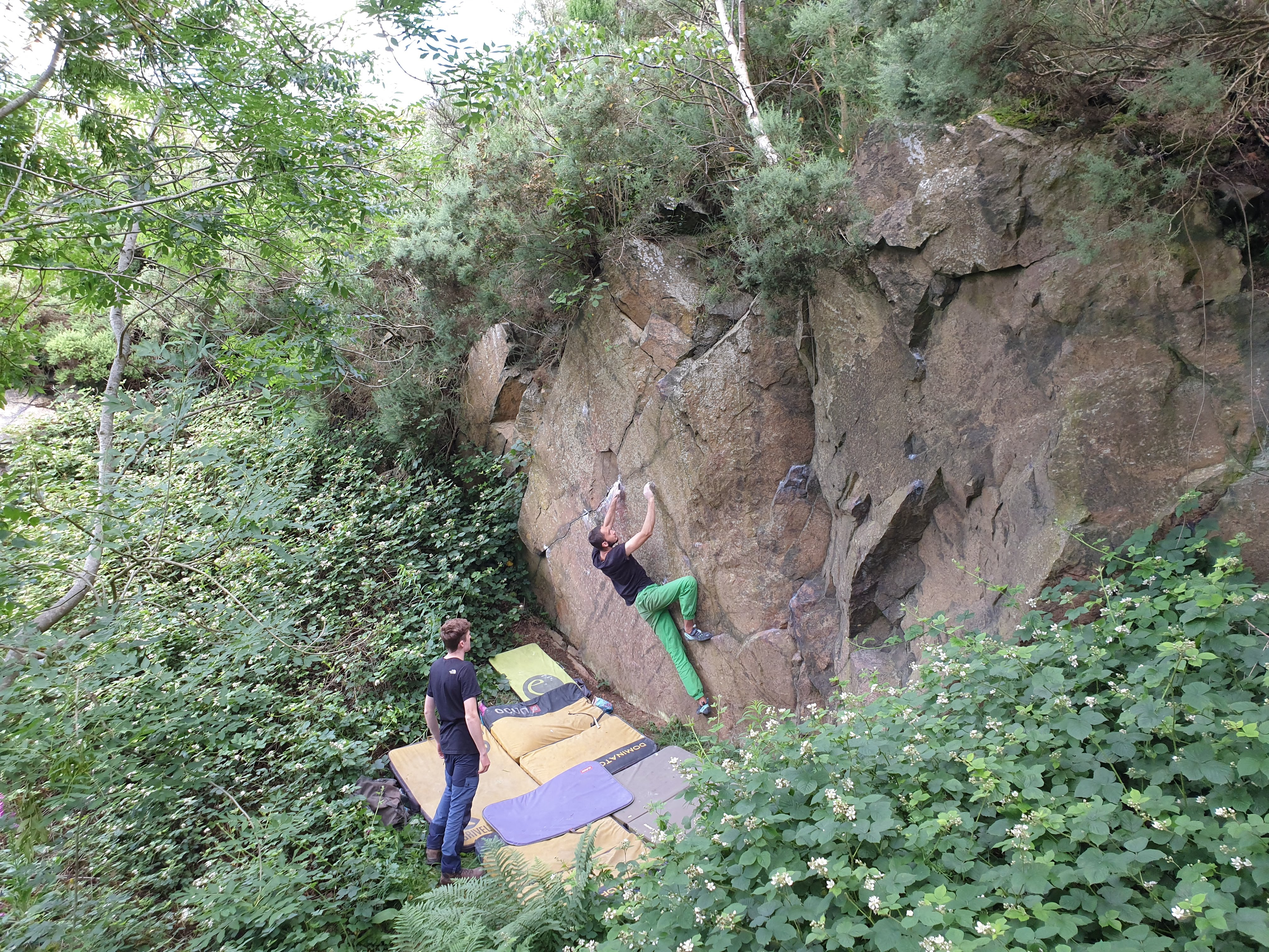
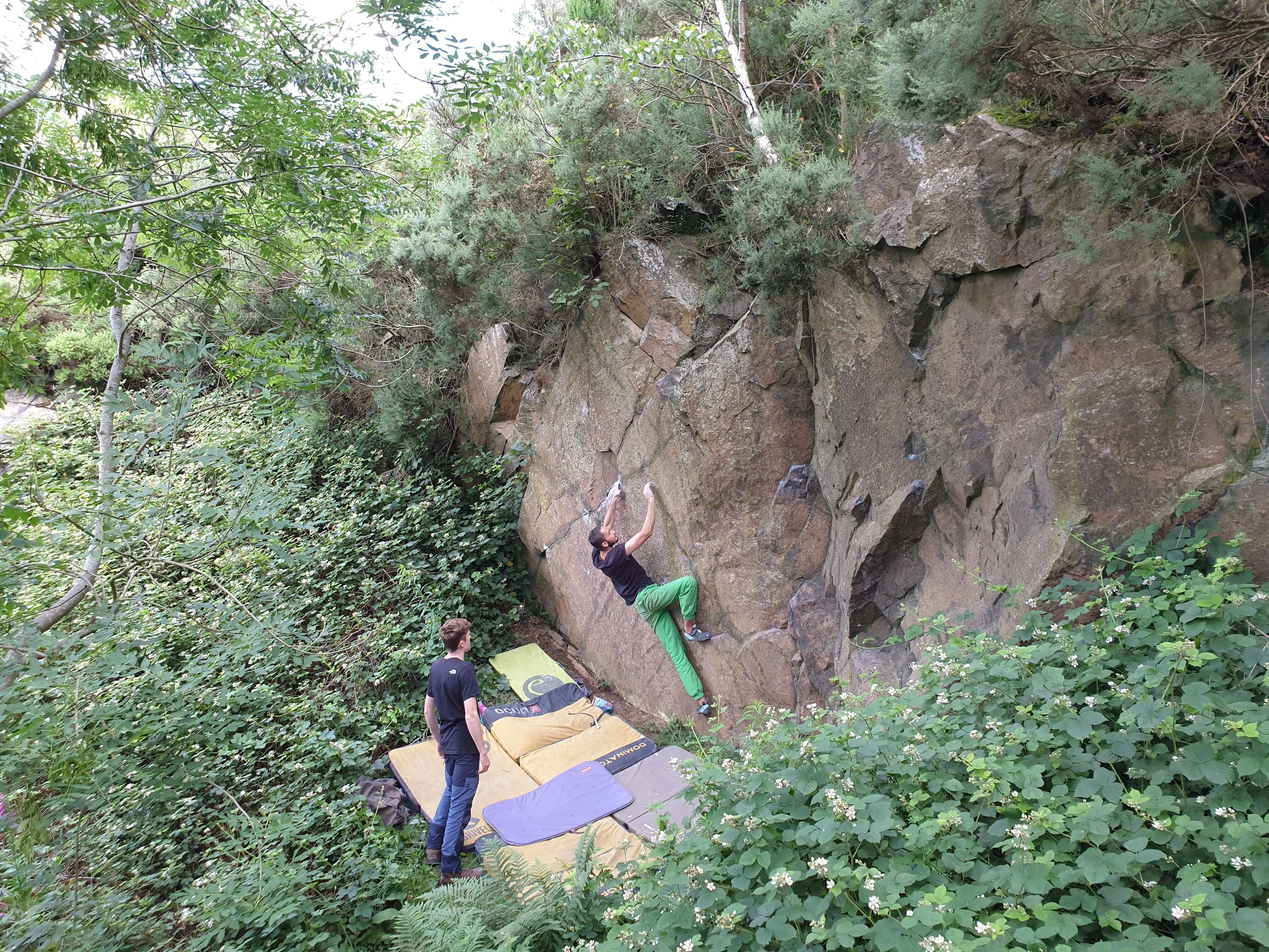
compress images

diff --git a/index.html b/index.html
@@ -1395,8 +1395,8 @@ Links
 <p>If you’re interested in coming outside with us then check out <a href="trips.html">our trips page</a>.</p>
 <p><br></p>
 <div class="layout-chunk" data-layout="l-body">
-<div id="htmlwidget-d46093bd4d8583d0d074" style="width:100%;height:384px;" class="slickR html-widget"></div>
-<script type="application/json" data-for="htmlwidget-d46093bd4d8583d0d074">{"x":[{"obj":"<div class=\"baseDiv_bump_524067915277556\">\n  <div>\n    <img src=\"https://warwickclimbersunion.co.uk/images/slideshow/a.jpg\" style=\"width:100%;height:auto;margin-left:auto;margin-right:auto;\"/>\n  <\/div>\n  <div>\n    <img src=\"https://warwickclimbersunion.co.uk/images/slideshow/b.jpg\" style=\"width:100%;height:auto;margin-left:auto;margin-right:auto;\"/>\n  <\/div>\n  <div>\n    <img src=\"https://warwickclimbersunion.co.uk/images/slideshow/c.jpg\" style=\"width:100%;height:auto;margin-left:auto;margin-right:auto;\"/>\n  <\/div>\n  <div>\n    <img src=\"https://warwickclimbersunion.co.uk/images/slideshow/d.jpg\" style=\"width:100%;height:auto;margin-left:auto;margin-right:auto;\"/>\n  <\/div>\n  <div>\n    <img src=\"https://warwickclimbersunion.co.uk/images/slideshow/DSC_0716.JPG\" style=\"width:100%;height:auto;margin-left:auto;margin-right:auto;\"/>\n  <\/div>\n  <div>\n    <img src=\"https://warwickclimbersunion.co.uk/images/slideshow/DSC_0783.JPG\" style=\"width:100%;height:auto;margin-left:auto;margin-right:auto;\"/>\n  <\/div>\n  <div>\n    <img src=\"https://warwickclimbersunion.co.uk/images/slideshow/e.jpg\" style=\"width:100%;height:auto;margin-left:auto;margin-right:auto;\"/>\n  <\/div>\n  <div>\n    <img src=\"https://warwickclimbersunion.co.uk/images/slideshow/f.jpg\" style=\"width:100%;height:auto;margin-left:auto;margin-right:auto;\"/>\n  <\/div>\n  <div>\n    <img src=\"https://warwickclimbersunion.co.uk/images/slideshow/g.jpg\" style=\"width:100%;height:auto;margin-left:auto;margin-right:auto;\"/>\n  <\/div>\n  <div>\n    <img src=\"https://warwickclimbersunion.co.uk/images/slideshow/h.jpg\" style=\"width:100%;height:auto;margin-left:auto;margin-right:auto;\"/>\n  <\/div>\n  <div>\n    <img src=\"https://warwickclimbersunion.co.uk/images/slideshow/i.jpg\" style=\"width:100%;height:auto;margin-left:auto;margin-right:auto;\"/>\n  <\/div>\n  <div>\n    <img src=\"https://warwickclimbersunion.co.uk/images/slideshow/j.jpg\" style=\"width:100%;height:auto;margin-left:auto;margin-right:auto;\"/>\n  <\/div>\n  <div>\n    <img src=\"https://warwickclimbersunion.co.uk/images/slideshow/k.jpg\" style=\"width:100%;height:auto;margin-left:auto;margin-right:auto;\"/>\n  <\/div>\n  <div>\n    <img src=\"https://warwickclimbersunion.co.uk/images/slideshow/l.jpg\" style=\"width:100%;height:auto;margin-left:auto;margin-right:auto;\"/>\n  <\/div>\n  <div>\n    <img src=\"https://warwickclimbersunion.co.uk/images/slideshow/m.jpg\" style=\"width:100%;height:auto;margin-left:auto;margin-right:auto;\"/>\n  <\/div>\n  <div>\n    <img src=\"https://warwickclimbersunion.co.uk/images/slideshow/n.jpg\" style=\"width:100%;height:auto;margin-left:auto;margin-right:auto;\"/>\n  <\/div>\n  <div>\n    <img src=\"https://warwickclimbersunion.co.uk/images/slideshow/o.jpg\" style=\"width:100%;height:auto;margin-left:auto;margin-right:auto;\"/>\n  <\/div>\n  <div>\n    <img src=\"https://warwickclimbersunion.co.uk/images/slideshow/p.JPG\" style=\"width:100%;height:auto;margin-left:auto;margin-right:auto;\"/>\n  <\/div>\n  <div>\n    <img src=\"https://warwickclimbersunion.co.uk/images/slideshow/q.JPG\" style=\"width:100%;height:auto;margin-left:auto;margin-right:auto;\"/>\n  <\/div>\n  <div>\n    <img src=\"https://warwickclimbersunion.co.uk/images/slideshow/r.JPG\" style=\"width:100%;height:auto;margin-left:auto;margin-right:auto;\"/>\n  <\/div>\n  <div>\n    <img src=\"https://warwickclimbersunion.co.uk/images/slideshow/s.jpg\" style=\"width:100%;height:auto;margin-left:auto;margin-right:auto;\"/>\n  <\/div>\n  <div>\n    <img src=\"https://warwickclimbersunion.co.uk/images/slideshow/t.JPG\" style=\"width:100%;height:auto;margin-left:auto;margin-right:auto;\"/>\n  <\/div>\n  <div>\n    <img src=\"https://warwickclimbersunion.co.uk/images/slideshow/u.jpg\" style=\"width:100%;height:auto;margin-left:auto;margin-right:auto;\"/>\n  <\/div>\n  <div>\n    <img src=\"https://warwickclimbersunion.co.uk/images/slideshow/v.jpg\" style=\"width:100%;height:auto;margin-left:auto;margin-right:auto;\"/>\n  <\/div>\n  <div>\n    <img src=\"https://warwickclimbersunion.co.uk/images/slideshow/w.jpg\" style=\"width:100%;height:auto;margin-left:auto;margin-right:auto;\"/>\n  <\/div>\n  <div>\n    <img src=\"https://warwickclimbersunion.co.uk/images/slideshow/x.jpg\" style=\"width:100%;height:auto;margin-left:auto;margin-right:auto;\"/>\n  <\/div>\n  <div>\n    <img src=\"https://warwickclimbersunion.co.uk/images/slideshow/y.jpg\" style=\"width:100%;height:auto;margin-left:auto;margin-right:auto;\"/>\n  <\/div>\n  <div>\n    <img src=\"https://warwickclimbersunion.co.uk/images/slideshow/z.jpg\" style=\"width:100%;height:auto;margin-left:auto;margin-right:auto;\"/>\n  <\/div>\n  <div>\n    <img src=\"https://warwickclimbersunion.co.uk/images/slideshow/za.jpg\" style=\"width:100%;height:auto;margin-left:auto;margin-right:auto;\"/>\n  <\/div>\n  <div>\n    <img src=\"https://warwickclimbersunion.co.uk/images/slideshow/zb.JPG\" style=\"width:100%;height:auto;margin-left:auto;margin-right:auto;\"/>\n  <\/div>\n  <div>\n    <img src=\"https://warwickclimbersunion.co.uk/images/slideshow/zc.jpg\" style=\"width:100%;height:auto;margin-left:auto;margin-right:auto;\"/>\n  <\/div>\n  <div>\n    <img src=\"https://warwickclimbersunion.co.uk/images/slideshow/zd.jpg\" style=\"width:100%;height:auto;margin-left:auto;margin-right:auto;\"/>\n  <\/div>\n<\/div>","divName":"baseDiv_bump_524067915277556","slideh":"auto","slidew":"100%","slickOpts":{"autoplay":true,"autoplaySpeed":3000,"arrows":true,"dots":true,"mobileFirst":true}}],"evals":[],"jsHooks":[]}</script>
+<div id="htmlwidget-b1c62f8b764ef7f1d101" style="width:100%;height:384px;" class="slickR html-widget"></div>
+<script type="application/json" data-for="htmlwidget-b1c62f8b764ef7f1d101">{"x":[{"obj":"<div class=\"baseDiv_bump_733047986868769\">\n  <div>\n    <img src=\"https://warwickclimbersunion.co.uk/images/slideshow/a.jpg\" style=\"width:100%;height:auto;margin-left:auto;margin-right:auto;\"/>\n  <\/div>\n  <div>\n    <img src=\"https://warwickclimbersunion.co.uk/images/slideshow/b.jpg\" style=\"width:100%;height:auto;margin-left:auto;margin-right:auto;\"/>\n  <\/div>\n  <div>\n    <img src=\"https://warwickclimbersunion.co.uk/images/slideshow/c.jpg\" style=\"width:100%;height:auto;margin-left:auto;margin-right:auto;\"/>\n  <\/div>\n  <div>\n    <img src=\"https://warwickclimbersunion.co.uk/images/slideshow/d.jpg\" style=\"width:100%;height:auto;margin-left:auto;margin-right:auto;\"/>\n  <\/div>\n  <div>\n    <img src=\"https://warwickclimbersunion.co.uk/images/slideshow/e.jpg\" style=\"width:100%;height:auto;margin-left:auto;margin-right:auto;\"/>\n  <\/div>\n  <div>\n    <img src=\"https://warwickclimbersunion.co.uk/images/slideshow/f.jpg\" style=\"width:100%;height:auto;margin-left:auto;margin-right:auto;\"/>\n  <\/div>\n  <div>\n    <img src=\"https://warwickclimbersunion.co.uk/images/slideshow/g.jpg\" style=\"width:100%;height:auto;margin-left:auto;margin-right:auto;\"/>\n  <\/div>\n  <div>\n    <img src=\"https://warwickclimbersunion.co.uk/images/slideshow/h.jpg\" style=\"width:100%;height:auto;margin-left:auto;margin-right:auto;\"/>\n  <\/div>\n  <div>\n    <img src=\"https://warwickclimbersunion.co.uk/images/slideshow/i.jpg\" style=\"width:100%;height:auto;margin-left:auto;margin-right:auto;\"/>\n  <\/div>\n  <div>\n    <img src=\"https://warwickclimbersunion.co.uk/images/slideshow/j.jpg\" style=\"width:100%;height:auto;margin-left:auto;margin-right:auto;\"/>\n  <\/div>\n  <div>\n    <img src=\"https://warwickclimbersunion.co.uk/images/slideshow/l.jpg\" style=\"width:100%;height:auto;margin-left:auto;margin-right:auto;\"/>\n  <\/div>\n  <div>\n    <img src=\"https://warwickclimbersunion.co.uk/images/slideshow/m.jpg\" style=\"width:100%;height:auto;margin-left:auto;margin-right:auto;\"/>\n  <\/div>\n  <div>\n    <img src=\"https://warwickclimbersunion.co.uk/images/slideshow/n.jpg\" style=\"width:100%;height:auto;margin-left:auto;margin-right:auto;\"/>\n  <\/div>\n  <div>\n    <img src=\"https://warwickclimbersunion.co.uk/images/slideshow/o.jpg\" style=\"width:100%;height:auto;margin-left:auto;margin-right:auto;\"/>\n  <\/div>\n  <div>\n    <img src=\"https://warwickclimbersunion.co.uk/images/slideshow/p.JPG\" style=\"width:100%;height:auto;margin-left:auto;margin-right:auto;\"/>\n  <\/div>\n  <div>\n    <img src=\"https://warwickclimbersunion.co.uk/images/slideshow/q.JPG\" style=\"width:100%;height:auto;margin-left:auto;margin-right:auto;\"/>\n  <\/div>\n  <div>\n    <img src=\"https://warwickclimbersunion.co.uk/images/slideshow/r.JPG\" style=\"width:100%;height:auto;margin-left:auto;margin-right:auto;\"/>\n  <\/div>\n  <div>\n    <img src=\"https://warwickclimbersunion.co.uk/images/slideshow/s.jpg\" style=\"width:100%;height:auto;margin-left:auto;margin-right:auto;\"/>\n  <\/div>\n  <div>\n    <img src=\"https://warwickclimbersunion.co.uk/images/slideshow/t.JPG\" style=\"width:100%;height:auto;margin-left:auto;margin-right:auto;\"/>\n  <\/div>\n  <div>\n    <img src=\"https://warwickclimbersunion.co.uk/images/slideshow/u.jpg\" style=\"width:100%;height:auto;margin-left:auto;margin-right:auto;\"/>\n  <\/div>\n  <div>\n    <img src=\"https://warwickclimbersunion.co.uk/images/slideshow/v.jpg\" style=\"width:100%;height:auto;margin-left:auto;margin-right:auto;\"/>\n  <\/div>\n  <div>\n    <img src=\"https://warwickclimbersunion.co.uk/images/slideshow/w.jpg\" style=\"width:100%;height:auto;margin-left:auto;margin-right:auto;\"/>\n  <\/div>\n  <div>\n    <img src=\"https://warwickclimbersunion.co.uk/images/slideshow/x.jpg\" style=\"width:100%;height:auto;margin-left:auto;margin-right:auto;\"/>\n  <\/div>\n  <div>\n    <img src=\"https://warwickclimbersunion.co.uk/images/slideshow/xa.JPG\" style=\"width:100%;height:auto;margin-left:auto;margin-right:auto;\"/>\n  <\/div>\n  <div>\n    <img src=\"https://warwickclimbersunion.co.uk/images/slideshow/xb.JPG\" style=\"width:100%;height:auto;margin-left:auto;margin-right:auto;\"/>\n  <\/div>\n  <div>\n    <img src=\"https://warwickclimbersunion.co.uk/images/slideshow/y.jpg\" style=\"width:100%;height:auto;margin-left:auto;margin-right:auto;\"/>\n  <\/div>\n  <div>\n    <img src=\"https://warwickclimbersunion.co.uk/images/slideshow/z.jpg\" style=\"width:100%;height:auto;margin-left:auto;margin-right:auto;\"/>\n  <\/div>\n  <div>\n    <img src=\"https://warwickclimbersunion.co.uk/images/slideshow/za.jpg\" style=\"width:100%;height:auto;margin-left:auto;margin-right:auto;\"/>\n  <\/div>\n  <div>\n    <img src=\"https://warwickclimbersunion.co.uk/images/slideshow/zb.JPG\" style=\"width:100%;height:auto;margin-left:auto;margin-right:auto;\"/>\n  <\/div>\n  <div>\n    <img src=\"https://warwickclimbersunion.co.uk/images/slideshow/zc.jpg\" style=\"width:100%;height:auto;margin-left:auto;margin-right:auto;\"/>\n  <\/div>\n  <div>\n    <img src=\"https://warwickclimbersunion.co.uk/images/slideshow/zd.jpg\" style=\"width:100%;height:auto;margin-left:auto;margin-right:auto;\"/>\n  <\/div>\n<\/div>","divName":"baseDiv_bump_733047986868769","slideh":"auto","slidew":"100%","slickOpts":{"autoplay":true,"autoplaySpeed":3000,"arrows":true,"dots":true,"mobileFirst":true}}],"evals":[],"jsHooks":[]}</script>
 </div>
 <!--radix_placeholder_article_footer-->
 <!--/radix_placeholder_article_footer-->
